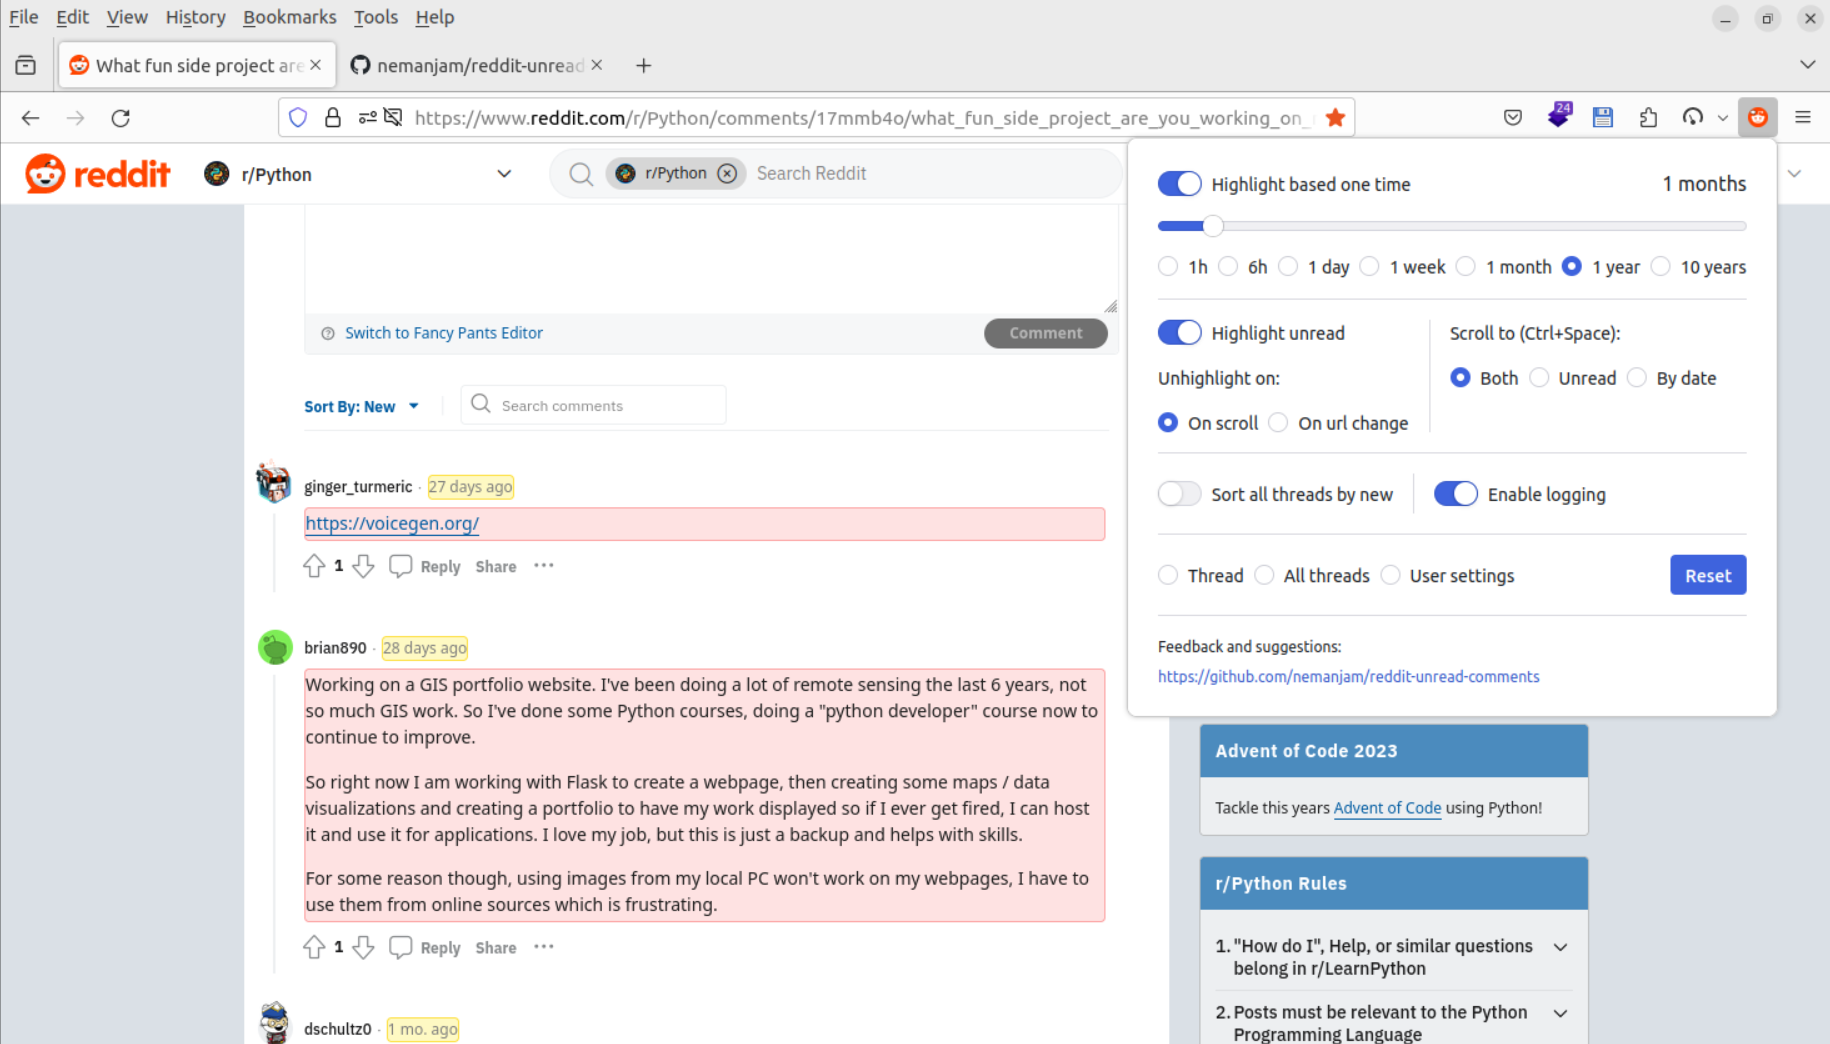
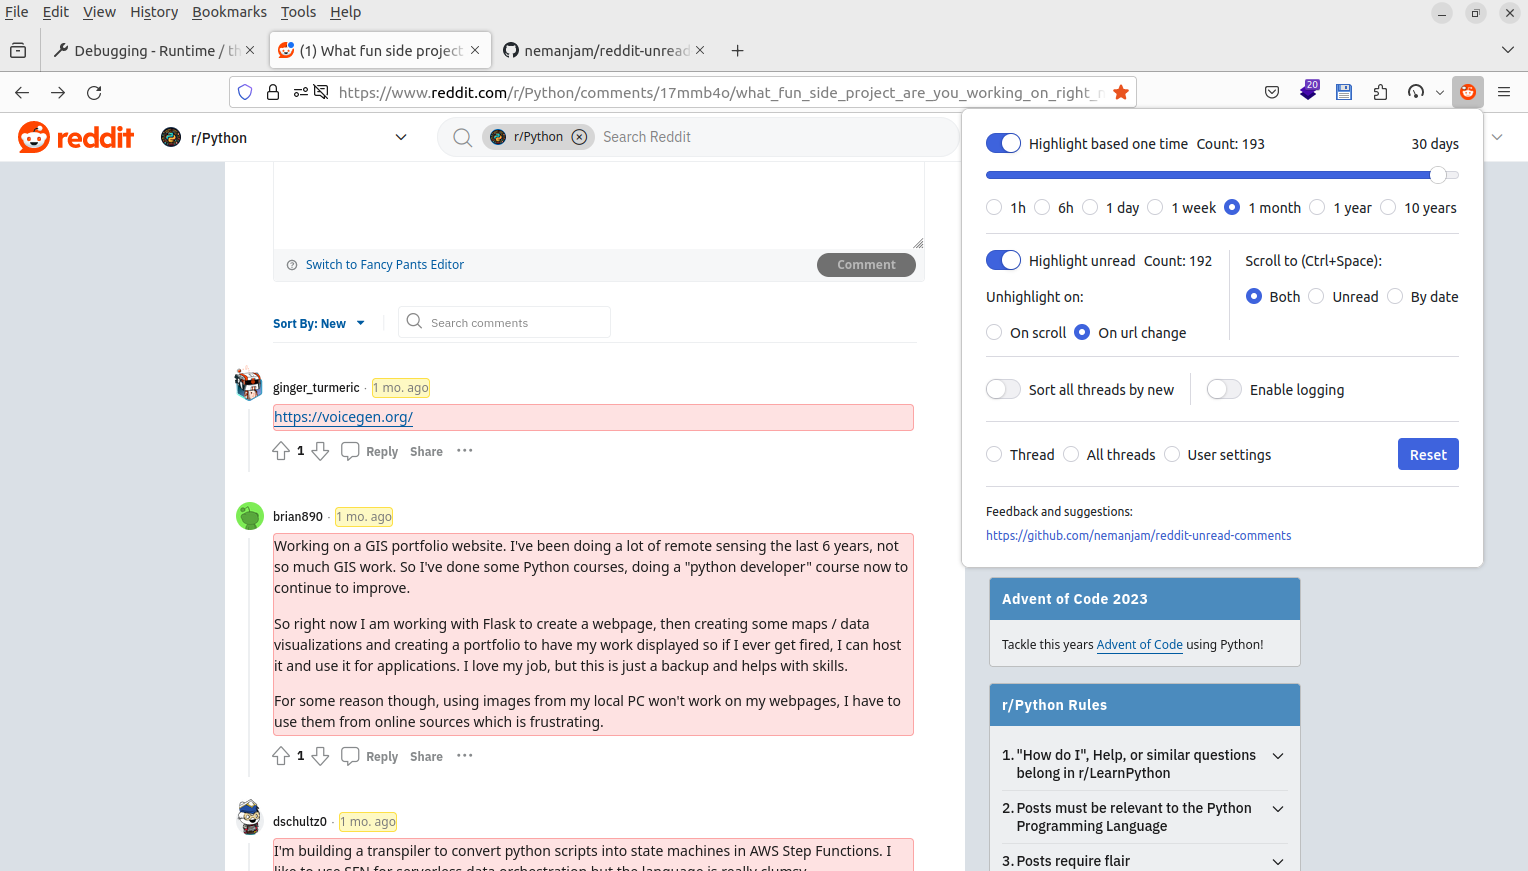
comment count onChange, check reddit url and return from popup

diff --git a/source/reddit-comments/popup/popup.tsx b/source/reddit-comments/popup/popup.tsx
@@ -1,4 +1,4 @@
-import React, { FC, useEffect, useState } from 'react';
+import React, { FC, ReactNode, useEffect, useState } from 'react';
 import { useForm } from 'react-hook-form';
 import { Theme, Container, Separator, Flex, Text } from '@radix-ui/themes';
 
@@ -12,8 +12,12 @@ import SectionLink from './section-link';
 import './popup.scss';
 import { SettingsData } from '../database/schema';
 import { defaultValues } from '../database/models/settings';
-import { formSubmitDebounceWait, highlightedCommentsCountInterval } from '../constants';
-import { debounce } from '../utils';
+import {
+  calcHighlightOnTimeDebounceWait,
+  formSubmitDebounceWait,
+  highlightedCommentsCountInterval,
+} from '../constants';
+import { debounce, isRedditThread } from '../utils';
 import { messageTypes, MyMessageType, sendMessage } from '../message';
 import SectionLogger from './section-logger';
 import logger from '../logger';
@@ -23,16 +27,35 @@ const Popup: FC = () => {
   const [isLoading, setIsLoading] = useState(true);
   const [highlightedOnTimeCount, setHighlightedOnTimeCount] = useState(0);
   const [highlightedUnreadCount, setHighlightedUnreadCount] = useState(0);
+  const [pageUrl, setPageUrl] = useState('');
 
   const form = useForm<SettingsData>({
     mode: 'onChange',
     defaultValues,
   });
   const { reset, getValues, watch, handleSubmit, resetField } = form;
+
+  const timeScale = watch('timeScale');
+  const timeSlider = watch('timeSlider');
   const isHighlightOnTime = watch('isHighlightOnTime');
   const isHighlightUnread = watch('isHighlightUnread');
 
   //! CANT USE DB, write generic function to get db data
+
+  // get page url
+  useEffect(() => {
+    const getPageUrl = async () => {
+      const message: MyMessageType = {
+        type: messageTypes.GET_PAGE_URL,
+      };
+      const response: MyMessageType = await sendMessage(message);
+      const pageUrl = response.payload;
+
+      setPageUrl(pageUrl);
+    };
+
+    getPageUrl();
+  }, []);
 
   // pre-populate form from db
   useEffect(() => {
@@ -51,6 +74,30 @@ const Popup: FC = () => {
 
     populateFormFromDb();
   }, [reloadFormIndex]);
+
+  // calc highlight on time onChange too
+  useEffect(() => {
+    const getHighlightedOnTimeCount = async () => {
+      const message: MyMessageType = {
+        type: messageTypes.CALC_HIGHLIGHTED_ON_TIME_COUNT,
+      };
+      const response: MyMessageType = await sendMessage(message);
+      const highlightedOnTimeCount = response.payload;
+
+      setHighlightedOnTimeCount(highlightedOnTimeCount);
+    };
+
+    const debouncedGetHighlightedOnTimeCount = debounce(
+      getHighlightedOnTimeCount,
+      calcHighlightOnTimeDebounceWait
+    );
+
+    const onChange = async () => {
+      if (isHighlightOnTime) await debouncedGetHighlightedOnTimeCount();
+    };
+
+    onChange();
+  }, [isHighlightOnTime, timeScale, timeSlider]);
 
   // refetch count of highlighted comments while popup is open
   useEffect(() => {
@@ -132,42 +179,55 @@ const Popup: FC = () => {
         break;
     }
   };
-  // return if not reddit thread
 
-  if (isLoading) return <Text as="div">Loading...</Text>;
+  if (!isRedditThread(pageUrl))
+    return (
+      <ReturnText>You must be on Reddit thread to load User Settings window.</ReturnText>
+    );
+
+  if (isLoading) return <ReturnText>Loading...</ReturnText>;
 
   return (
-    <Theme radius="medium">
-      <Container id="popup" p="4">
-        <form onChange={debouncedHandleSubmit}>
-          <SectionTime form={form} count={highlightedOnTimeCount} />
-          <Separator size="4" my="4" />
-          <Flex style={{ height: 90 }}>
-            <SectionUnread form={form} count={highlightedUnreadCount} />
-            <Separator orientation="vertical" size="4" mx="4" />
-            <SectionScroll form={form} />
-          </Flex>
-          <Separator size="4" my="4" />
-          <Flex align="center">
-            <SectionSort form={form} />
-            <Separator orientation="vertical" size="2" mx="4" />
-            <SectionLogger form={form} />
-          </Flex>
-          <Separator size="4" my="4" />
-          <SectionDatabase form={form} onResetClick={handleResetDb} />
-        </form>
+    <ThemeWithContainer>
+      <form onChange={debouncedHandleSubmit}>
+        <SectionTime form={form} count={highlightedOnTimeCount} />
         <Separator size="4" my="4" />
-        <SectionLink />
-      </Container>
-    </Theme>
+        <Flex style={{ height: 90 }}>
+          <SectionUnread form={form} count={highlightedUnreadCount} />
+          <Separator orientation="vertical" size="4" mx="4" />
+          <SectionScroll form={form} />
+        </Flex>
+        <Separator size="4" my="4" />
+        <Flex align="center">
+          <SectionSort form={form} />
+          <Separator orientation="vertical" size="2" mx="4" />
+          <SectionLogger form={form} />
+        </Flex>
+        <Separator size="4" my="4" />
+        <SectionDatabase form={form} onResetClick={handleResetDb} />
+      </form>
+      <Separator size="4" my="4" />
+      <SectionLink />
+    </ThemeWithContainer>
   );
 };
 
 export default Popup;
 
-// time slider and scale radio
-// radio unhighlight mode: scroll, url-change
-// buttons clear database, clear thread, clear settings
-// radio scroll to unread, scroll to by date, scroll to both
-// radio sort by new
-// github url
+type Props = {
+  children: ReactNode;
+};
+
+const ThemeWithContainer: FC<Props> = ({ children }) => (
+  <Theme radius="medium">
+    <Container id="popup" p="4">
+      {children}
+    </Container>
+  </Theme>
+);
+
+const ReturnText: FC<Props> = ({ children }) => (
+  <ThemeWithContainer>
+    <Text as="div">{children}</Text>
+  </ThemeWithContainer>
+);

diff --git a/source/reddit-comments/constants.ts b/source/reddit-comments/constants.ts
@@ -10,6 +10,7 @@
  *------------------------------------------------------------------------**/
 
 export const redditThreadUrlRegex = /https?:\/\/www\.?reddit\.com\/r\/\w+\/comments\/.+/;
+export const redditUrlRegex = /https?:\/\/www\.?reddit\.com.*/;
 
 // selectors, easier to select children than parents
 export const commentSelector = '[id^="t1_"]:not([id*="-"])';
@@ -50,6 +51,8 @@ export const waitAfterSortByNew = 2000;
 
 /** Debounce only slider onChange in form. */
 export const formSubmitDebounceWait = 300;
+
+export const calcHighlightOnTimeDebounceWait = 300;
 
 /** In realtime mode, delay to mark as read and un-highlight comments. */
 export const markAsReadDelay = 5 * 1000;

diff --git a/source/reddit-comments/utils.ts b/source/reddit-comments/utils.ts
@@ -1,4 +1,4 @@
-import { redditThreadUrlRegex } from './constants';
+import { redditThreadUrlRegex, redditUrlRegex } from './constants';
 import { SettingsData, SettingsDataKeys } from './database/schema';
 
 export type AnyFunction = (...args: any[]) => any;
@@ -43,6 +43,8 @@ export const delayExecution = async <T extends any[]>(
   });
 
 export const isActiveTab = () => document.visibilityState === 'visible';
+
+export const isRedditSite = (url: string): boolean => redditUrlRegex.test(url);
 
 export const isRedditThread = (url: string): boolean => redditThreadUrlRegex.test(url);
 

diff --git a/source/reddit-comments/datetime.ts b/source/reddit-comments/datetime.ts
@@ -85,7 +85,7 @@ export const getSliderPropsFromScale = (timeScale: TimeScaleType): SliderProps =
     '6h': { max: 6, step: 1, unit: 'hours' },
     '1 day': { max: 24, step: 1, unit: 'hours' },
     '1 week': { max: 7, step: 1, unit: 'days' },
-    '1 month': { max: 30, step: 1, unit: 'days' },
+    '1 month': { max: 31, step: 1, unit: 'days' },
     '1 year': { max: 12, step: 1, unit: 'months' },
     '10 years': { max: 10, step: 1, unit: 'years' },
   } as const;

diff --git a/source/reddit-comments/message.ts b/source/reddit-comments/message.ts
@@ -14,6 +14,7 @@ export const messageTypes = {
   RESET_THREAD_DATA: 'RESET_THREAD_DATA',
   CALC_HIGHLIGHTED_ON_TIME_COUNT: 'CALC_HIGHLIGHTED_ON_TIME_COUNT',
   CALC_HIGHLIGHTED_UNREAD_COUNT: 'CALC_HIGHLIGHTED_UNREAD_COUNT',
+  GET_PAGE_URL: 'GET_PAGE_URL',
 } as const;
 
 export type MessageTypes = (typeof messageTypes)[keyof typeof messageTypes];

diff --git a/source/reddit-comments/events.ts b/source/reddit-comments/events.ts
@@ -291,6 +291,15 @@ const handleMessageFromPopup = async (
         return response;
       }
 
+      case messageTypes.GET_PAGE_URL: {
+        const response: MyMessageType = {
+          type: messageTypes.GET_PAGE_URL,
+          payload: location.href,
+        };
+
+        return response;
+      }
+
       default:
         break;
     }

diff --git a/docs/todo.md b/docs/todo.md
@@ -117,4 +117,6 @@ add additional debugging logging
     add unread switch
 test db size deleting
 check console errors
-check if reddit thread url in popup
+    check if reddit thread url in popup
+    display comments count
+    trigger on interval and onChange
